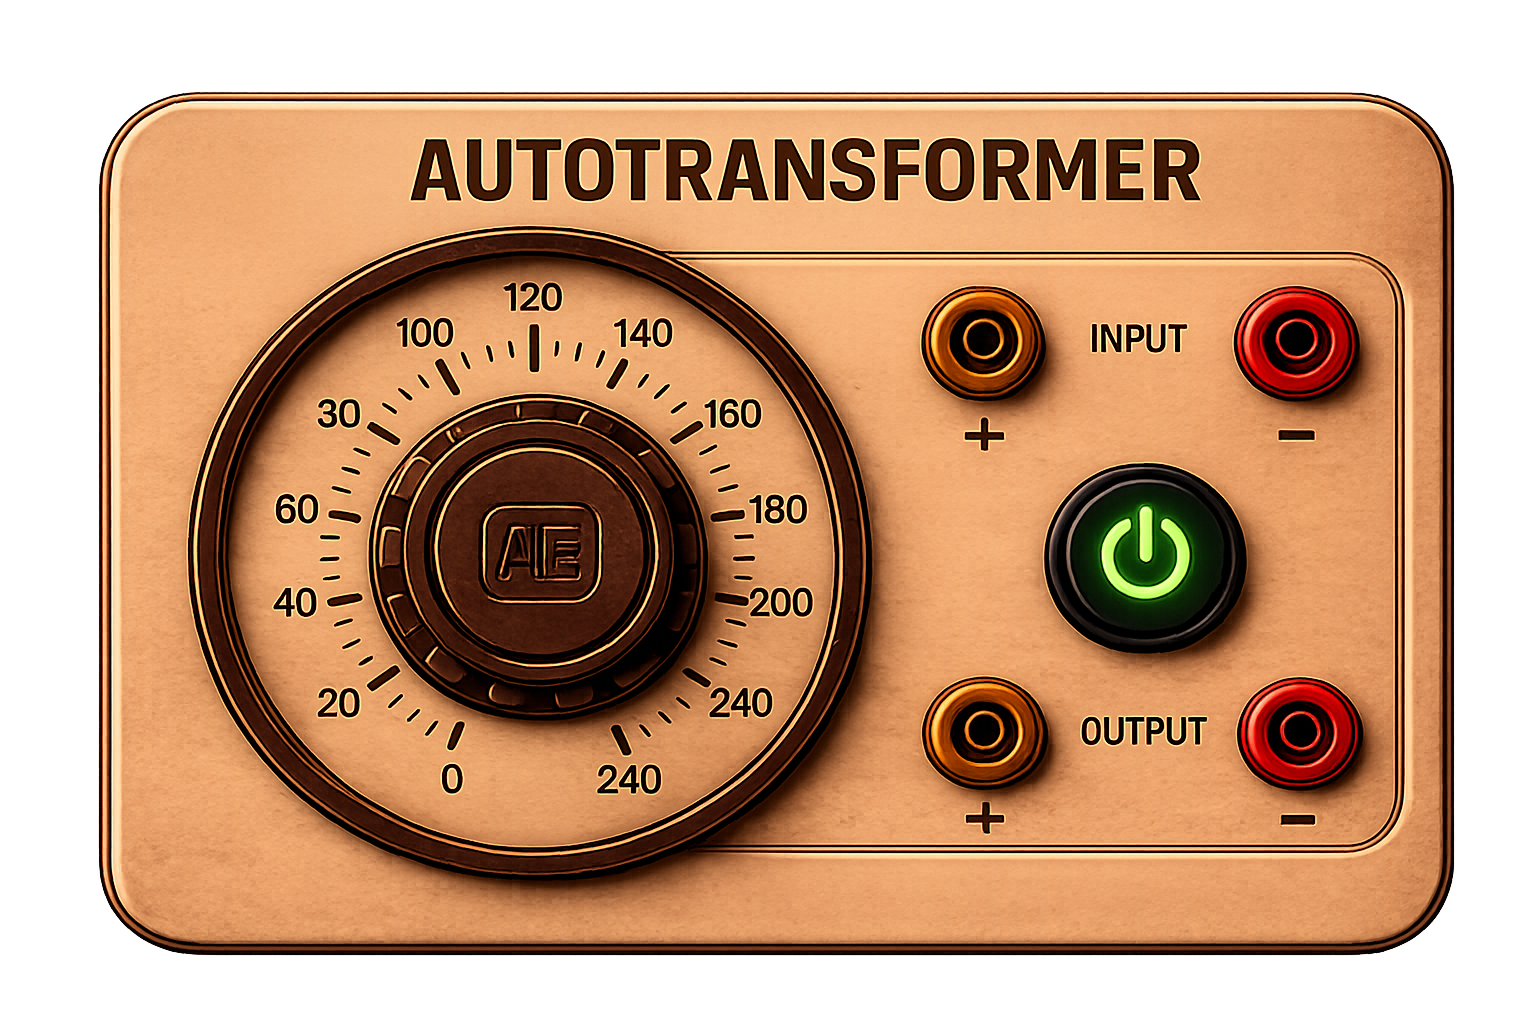
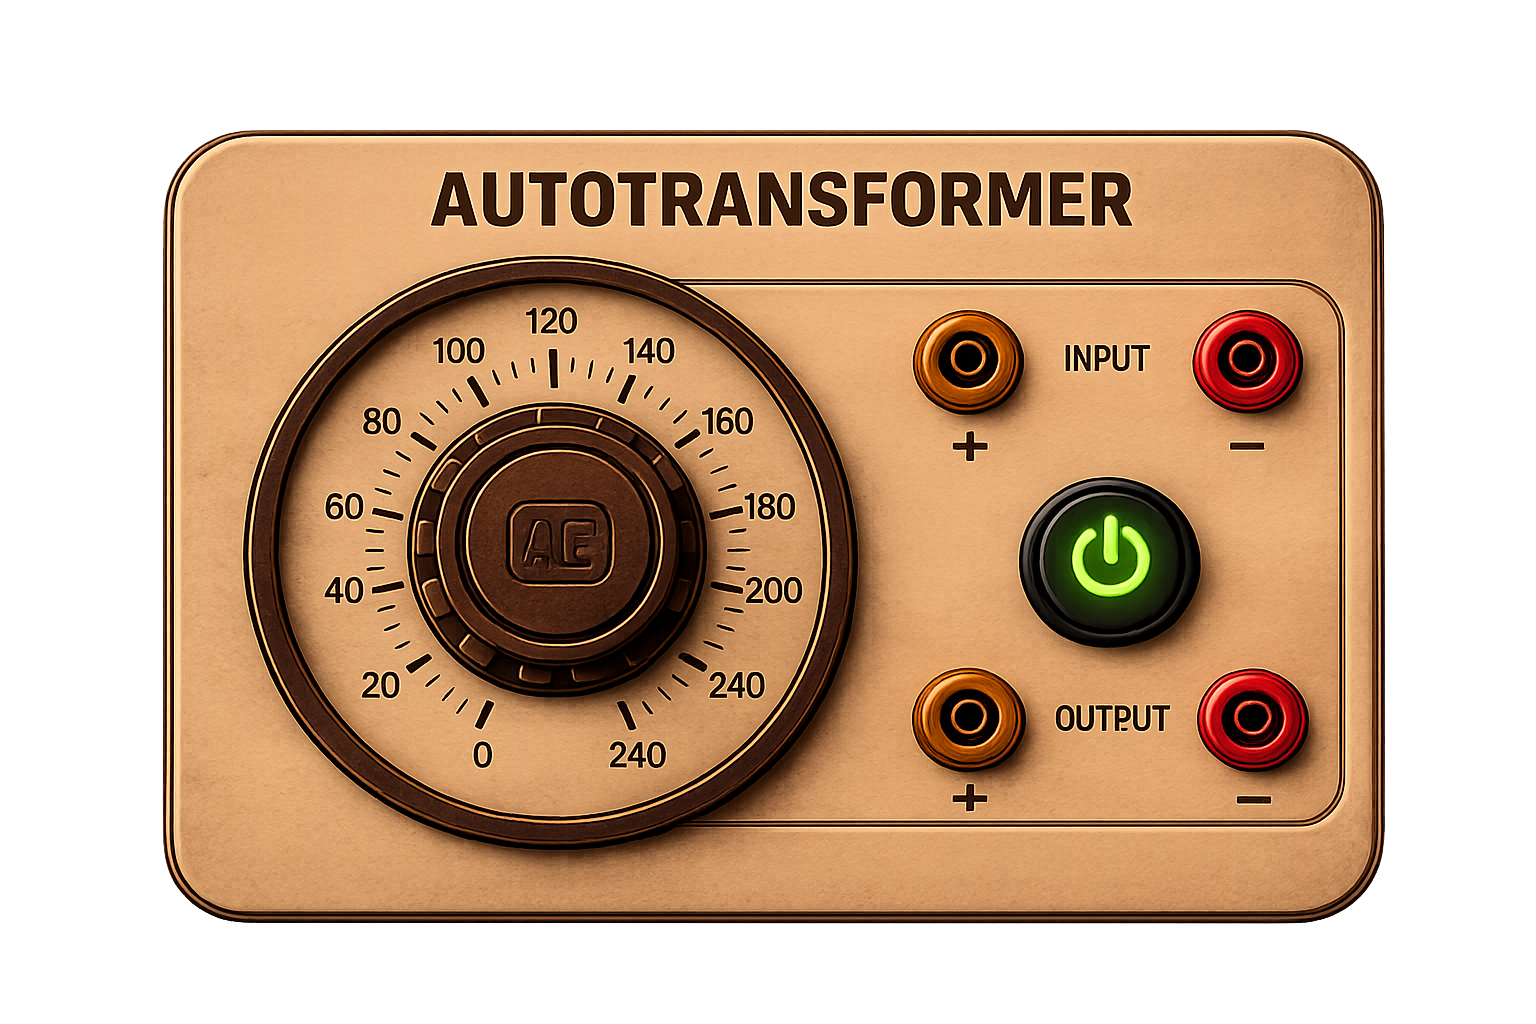
Update apparatus layout assets

diff --git a/src/App.css b/src/App.css
@@ -61,7 +61,7 @@
   z-index: 1;
   display: grid;
   width: 1332px;
-  grid-template-columns: 466px 845px;
+  grid-template-columns: 466px 945px;
   gap: 21px;
 }
 
@@ -637,7 +637,7 @@
   z-index: auto;
   left: 15px;
   width: 280px;
-  height: 205px;
+  height: 200px;
   flex: 0 0 auto;
   overflow: hidden;
   border-radius: 13px;
@@ -662,16 +662,16 @@
 
 .power-supply__image {
   position: absolute;
-  top: -1px;
+  top: 5px;
   left: 1px;
   z-index: 1;
   width: 300px;
   height: 230px;
-  object-fit: fill;
+  object-fit: cover;
   filter: none;
 }
 
-.power-supply__display {
+/* .power-supply__display {
   position: absolute;
   top: 50px;
   left: 40px;
@@ -707,7 +707,7 @@
   border-radius: 999px;
   background: transparent;
   cursor: pointer;
-}
+} */
 
 .power-supply__control {
   position: absolute;
@@ -715,7 +715,7 @@
   bottom: 30px;
   z-index: 4;
   width: 116px;
-  height: 26px;
+  height: 36px;
 }
 
 .voltage-range {
@@ -826,7 +826,7 @@
   z-index: 1;
   width: 204px;
   height: 224px;
-  object-fit: fill;
+  object-fit: cover;
   transform-origin: center top;
   transform: scale(var(--ammeter-image-scale));
   filter: none;
@@ -1345,9 +1345,12 @@ input:focus-visible {
 }
 
 .equipment-panel {
-  height: 390px;
+  --lab-meter-gap: 42px;
+  --lab-meter-height: 205px;
+  --lab-meter-width: 158px;
+  height: 750px;
   align-items: flex-start;
-  justify-content: space-between;
+  justify-content: flex-start;
   gap: 0;
   padding: 22px 36px 18px;
 }
@@ -1363,6 +1366,16 @@ input:focus-visible {
   gap: 18px;
 }
 
+.equipment-panel__meter-row {
+  position: relative;
+  z-index: 1;
+  display: grid;
+  grid-template-columns: repeat(3, var(--lab-meter-width));
+  gap: var(--lab-meter-gap);
+  align-items: start;
+  margin-left: auto;
+}
+
 .mcb-device,
 .lab-meter {
   position: relative;
@@ -1373,7 +1386,8 @@ input:focus-visible {
 }
 
 .mcb-device {
-  width: 94px;
+  top: 25px;
+  width: 120px;
   height: 158px;
 }
 
@@ -1386,10 +1400,10 @@ input:focus-visible {
   object-fit: fill;
   pointer-events: none;
 }
-
+/* 
 .mcb-device__button {
   position: absolute;
-  top: 47px;
+  top: 7px;
   left: 31px;
   z-index: 4;
   width: 33px;
@@ -1418,7 +1432,7 @@ input:focus-visible {
     inset 0 -4px 6px rgba(0, 0, 0, 0.2),
     0 5px 8px rgba(34, 24, 18, 0.26);
   pointer-events: none;
-}
+} */
 
 .mcb-device__switch::before {
   position: absolute;
@@ -1459,10 +1473,14 @@ input:focus-visible {
 .variac-device {
   position: relative;
   z-index: 1;
-  width: 190px;
+  top: 58px;
+  left: -40px;
+  width: 195px;
   height: 127px;
   flex: 0 0 auto;
   overflow: visible;
+  transform: translate(12px, 10px) scale(1.55);
+  transform-origin: top left;
   filter: drop-shadow(5px 6px 0 rgba(72, 46, 25, 0.18));
 }
 
@@ -1478,11 +1496,11 @@ input:focus-visible {
 
 .variac-device__knob {
   position: absolute;
-  top: 34px;
-  left: 26px;
+  top: 48px;
+  left: 50px;
   z-index: 2;
-  width: 70px;
-  height: 70px;
+  width: 40px;
+  height: 40px;
   object-fit: contain;
   pointer-events: none;
   transform-origin: center center;
@@ -1491,11 +1509,11 @@ input:focus-visible {
 
 .variac-device__control {
   position: absolute;
-  top: 29px;
-  left: 21px;
+  top: 70px;
+  left: 41px;
   z-index: 4;
-  width: 80px;
-  height: 80px;
+  width: 100px;
+  height: 100px;
   border-radius: 999px;
 }
 
@@ -1511,9 +1529,50 @@ input:focus-visible {
   cursor: not-allowed;
 }
 
+.transformer-device {
+  position: relative;
+  top: -78px;
+  left: 289px;
+  z-index: 1;
+  width: 195px;
+  max-width: none;
+  height: auto;
+  flex: 0 0 auto;
+  pointer-events: none;
+  filter: drop-shadow(5px 6px 0 rgba(72, 46, 25, 0.18));
+}
+
+.under-variac-meter {
+  position: absolute;
+  display: block;
+  z-index: 2;
+  max-width: none;
+  object-fit: contain;
+  pointer-events: none;
+  filter: drop-shadow(5px 6px 0 rgba(72, 46, 25, 0.18));
+}
+
+#A2 {
+  top: 460px;
+  left: -10px;
+  width: 155px;
+  height: 155px;
+  transform: scale(1.37);
+  transform-origin: top left;
+}
+
+#V2 {
+  top: 460px;
+  left: 165px;
+  width: 155px;
+  height: 155px;
+  transform: scale(1.35);
+  transform-origin: top left;
+}
+
 .lab-meter {
-  width: 158px;
-  height: 210px;
+  width: var(--lab-meter-width);
+  height: var(--lab-meter-height);
   border: 3px solid #272522;
   border-radius: 13px;
   background:
@@ -1636,7 +1695,7 @@ input:focus-visible {
 }
 
 .lab-meter--ammeter .lab-meter__image {
-  transform: scale(1.15);
+  transform: scale(1.12);
   transform-origin: center center;
 }
 
@@ -1674,6 +1733,19 @@ input:focus-visible {
   box-shadow: 0 0 0 1px rgba(255, 255, 255, 0.24);
   pointer-events: none;
   transform-origin: 0 50%;
+}
+
+.lamp-load-image {
+  position: absolute;
+  top: 230px;
+  left: -100px;
+  z-index: 2;
+  width: 200px;
+  max-width: none;
+  height: auto;
+  transform: scale(1.45);
+  transform-origin: top left;
+  pointer-events: none;
 }
 
 .mcb-device .connection-terminal--endpoint-1 {

diff --git a/src/components/EquipmentPanel.jsx b/src/components/EquipmentPanel.jsx
@@ -4,6 +4,9 @@ import PowerSupply from './PowerSupply.jsx'
 import Variac from './Variac.jsx'
 import Voltmeter from './Voltmeter.jsx'
 import Wattmeter from './Wattmeter.jsx'
+import a2MeterImg from '../assets/A2.png'
+import acVoltmeterImg from '../assets/AC_voltmeter_equal.png'
+import transformerImg from '../assets/transformer.png'
 
 const EquipmentPanel = ({ onTogglePower, powerOn, readings, setVoltage, voltage }) => {
   const activeVoltage = powerOn ? voltage : 0
@@ -22,11 +25,30 @@ const EquipmentPanel = ({ onTogglePower, powerOn, readings, setVoltage, voltage 
           setVoltage={setVoltage}
           voltage={voltage}
         />
+        <img
+          alt="A2 meter"
+          className="under-variac-meter"
+          id="A2"
+          src={a2MeterImg}
+        />
+        <img
+          alt="AC voltmeter"
+          className="under-variac-meter"
+          id="V2"
+          src={acVoltmeterImg}
+        />
+        <img
+          alt="Transformer"
+          className="transformer-device"
+          src={transformerImg}
+        />
       </div>
 
-      <Voltmeter value={activeVoltage} />
-      <Ammeter value={ammeterCurrent} />
-      <Wattmeter value={wattmeterPower} />
+      <div className="equipment-panel__meter-row">
+        <Voltmeter value={activeVoltage} />
+        <Ammeter value={ammeterCurrent} />
+        <Wattmeter value={wattmeterPower} />
+      </div>
     </section>
   )
 }

diff --git a/src/App.jsx b/src/App.jsx
@@ -16,13 +16,13 @@ import { useAiGuideNarration } from './aiGuide/useAiGuideNarration.js'
 import { calculateReadings } from './utils/circuitMath.js'
 import { generateKclReport } from './utils/reportGenerator.js'
  
-const BASE_WIDTH = 1440
+const BASE_WIDTH = 1435
 const BASE_HEIGHT = 960
 const GRAPH_SECTION_GAP = 28
 const GRAPH_SECTION_HEIGHT = 430
 const CONTENT_HEIGHT = BASE_HEIGHT + GRAPH_SECTION_GAP + GRAPH_SECTION_HEIGHT
-const PANEL_MAX_SCALE = 0.9
-const PANEL_VIEWPORT_MARGIN = 24
+const PANEL_MAX_SCALE = 0.95
+const PANEL_VIEWPORT_MARGIN = 32
 const MIN_GRAPH_READINGS = 6
 const MAX_OBSERVATIONS = 10
 const VOLTAGE_SAFETY_LIMIT = 8.5
@@ -43,9 +43,8 @@ const getScale = () => {
   }
 
   const widthScale = (window.innerWidth - PANEL_VIEWPORT_MARGIN) / BASE_WIDTH
-  const heightScale = (window.innerHeight - PANEL_VIEWPORT_MARGIN) / BASE_HEIGHT
 
-  return Math.max(Math.min(widthScale, heightScale, PANEL_MAX_SCALE), 0.1)
+  return Math.max(Math.min(widthScale, PANEL_MAX_SCALE), 0.1)
 }
 
 const App = () => {

diff --git a/src/components/Variac.jsx b/src/components/Variac.jsx
@@ -6,7 +6,7 @@ const Variac = ({ powerOn, setVoltage, voltage }) => {
     setVoltage(Number(Number(event.target.value).toFixed(1)))
   }
 
-  const rotation = -120 + (voltage / 10) * 240
+  const rotation = -70 + (voltage / 10) * 240
 
   return (
     <article className="variac-device" aria-label="Variac voltage controller">

diff --git a/src/components/Wattmeter.jsx b/src/components/Wattmeter.jsx
@@ -1,3 +1,4 @@
+import lampLoadImg from '../assets/lampload.png'
 import wattmeterImg from '../assets/ac_wattmeter.png'
 import ApparatusTerminal from './ApparatusTerminal.jsx'
 
@@ -10,6 +11,7 @@ const Wattmeter = ({ value = 0 }) => {
   return (
     <article className="lab-meter lab-meter--wattmeter" id="wattmeter-meter" aria-label="AC wattmeter">
       <img alt="AC wattmeter" className="lab-meter__image" src={wattmeterImg} />
+      <img alt="Lamp load" className="lamp-load-image" src={lampLoadImg} />
 
       <span
         className="wattmeter-needle"